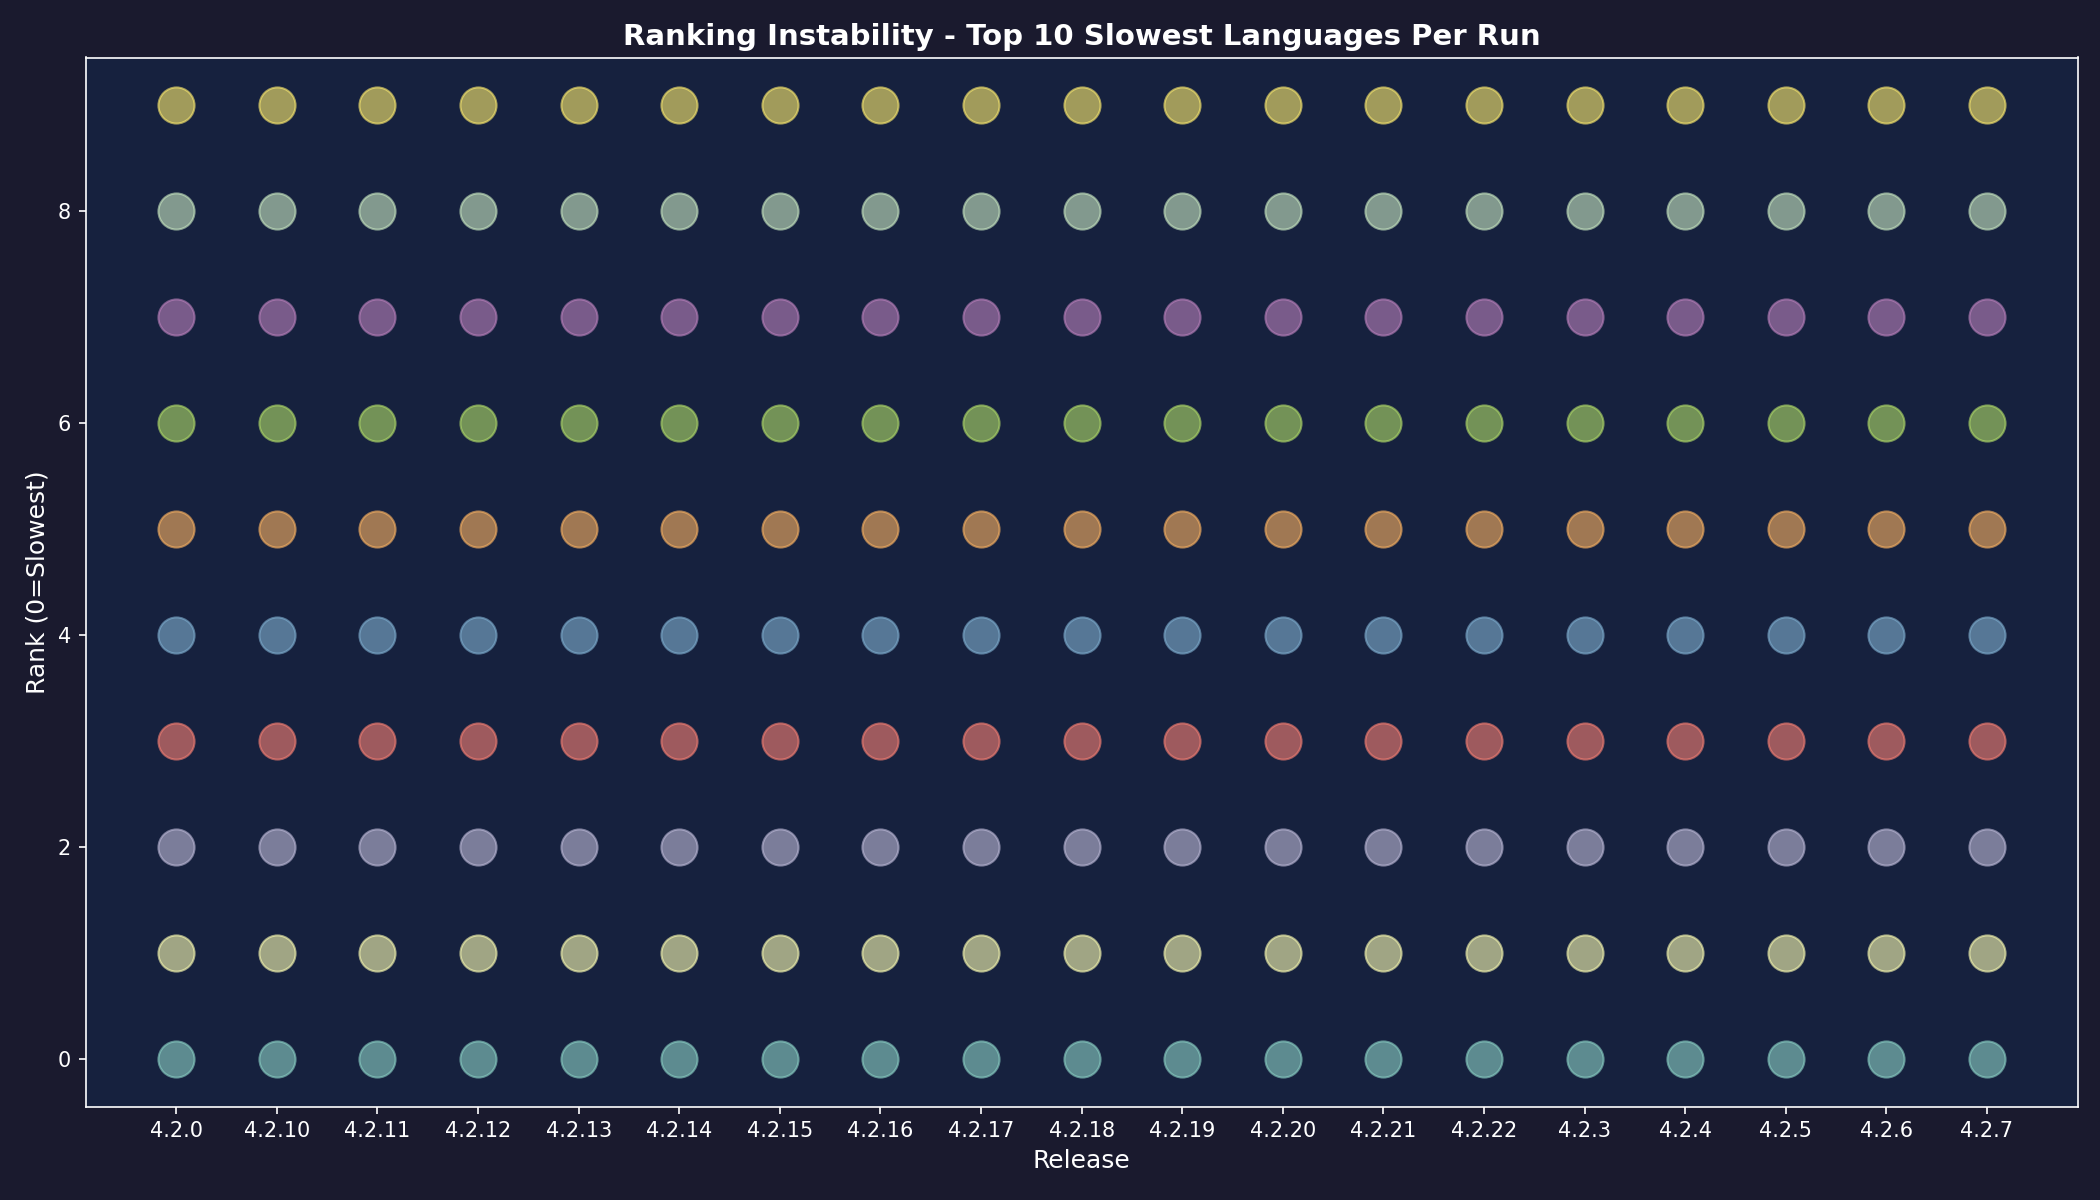
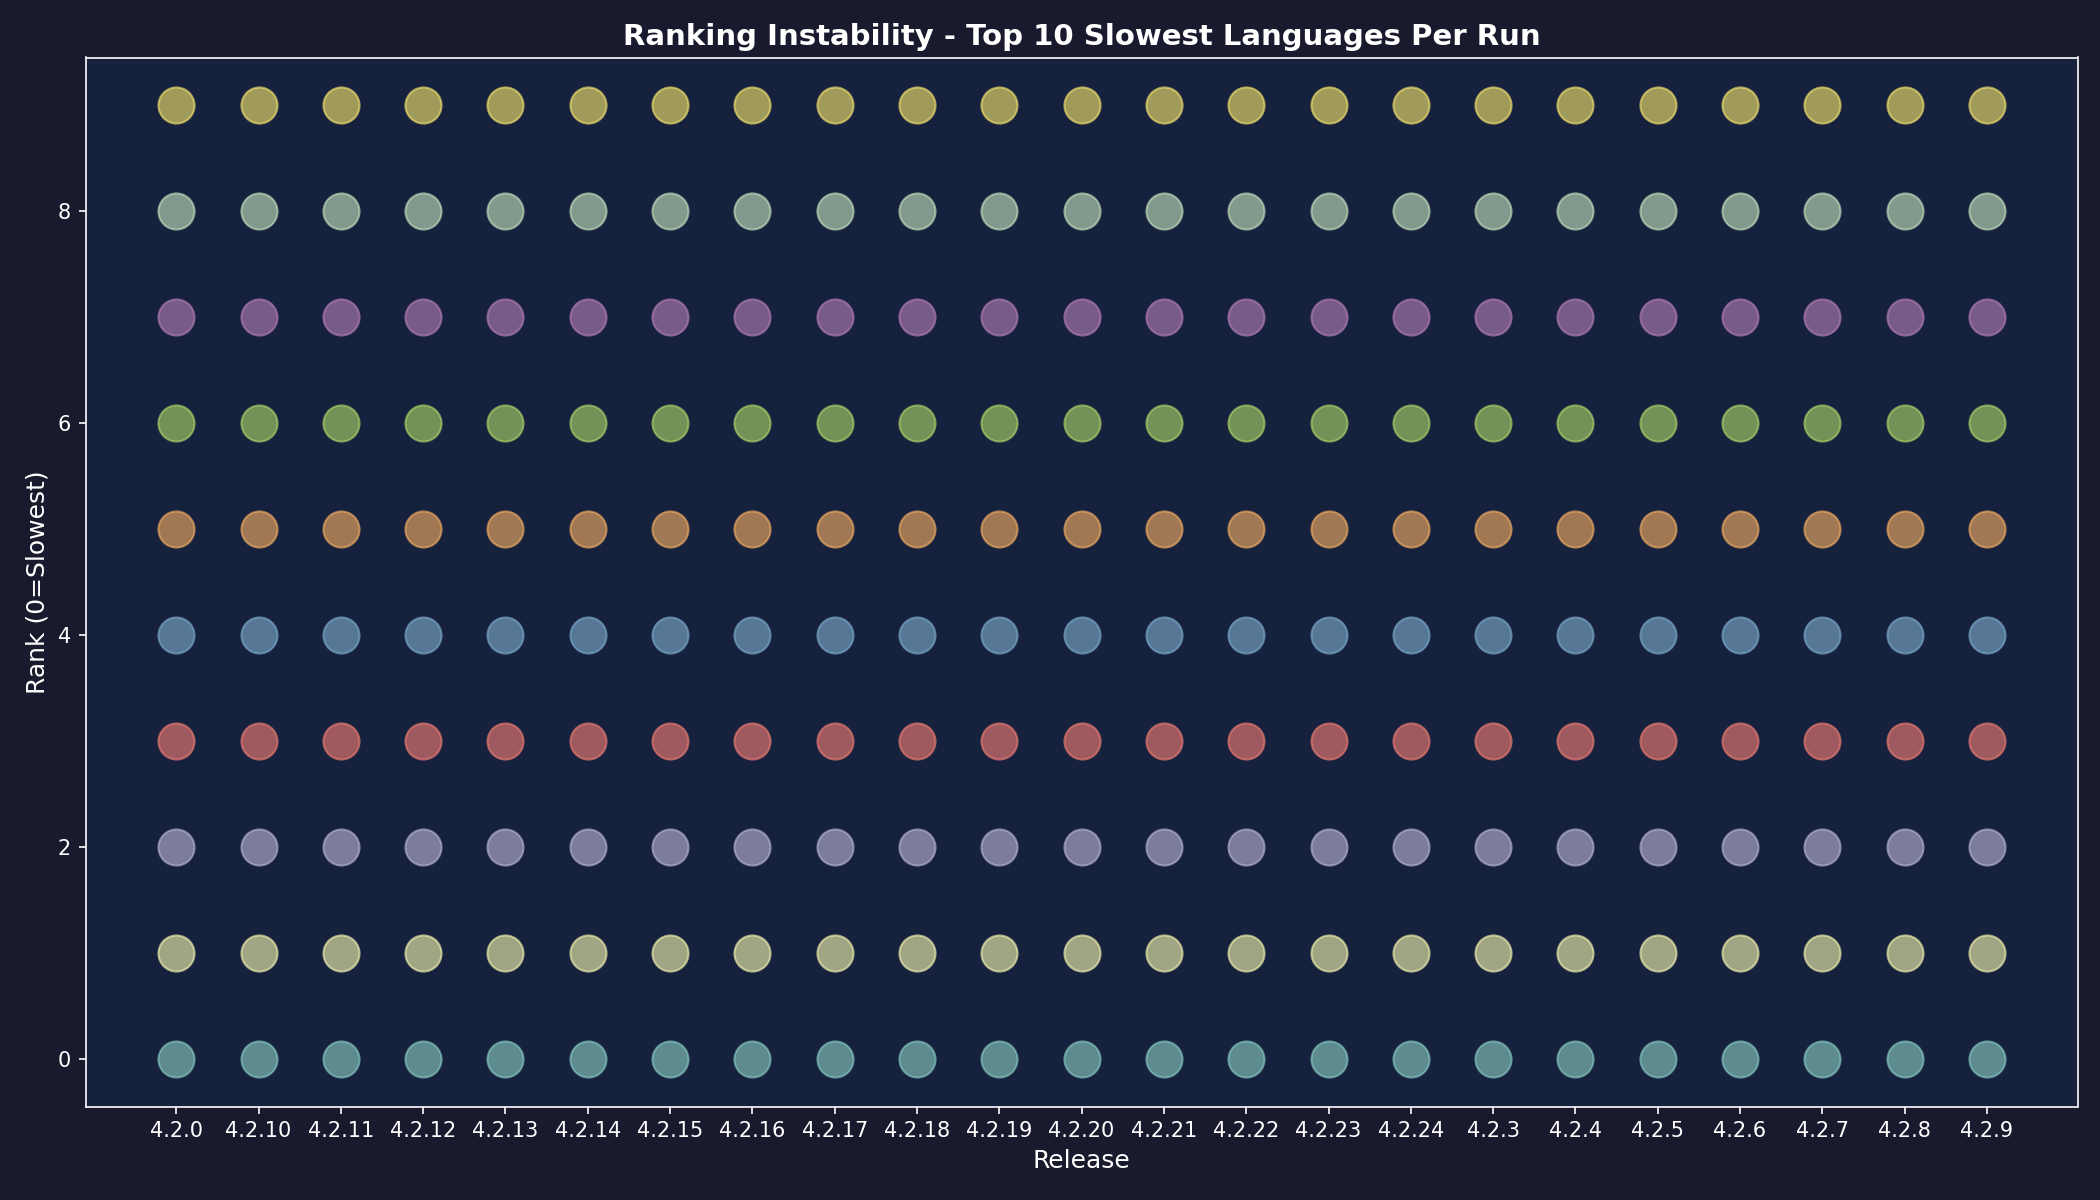
fix: regenerate aggregate report to resolve merge conflicts [ci skip]

diff --git a/AGGREGATED-PERFORMANCE.md b/AGGREGATED-PERFORMANCE.md
@@ -1,22 +1,13 @@
 # UN Inception: Aggregated Performance Analysis
 
-<<<<<<< Updated upstream
-**Analysis Date:** 1769282055.7116168
-**Reports Analyzed:** 4.2.0, 4.2.10, 4.2.11, 4.2.12, 4.2.13, 4.2.14, 4.2.15, 4.2.16, 4.2.17, 4.2.18, 4.2.19, 4.2.20, 4.2.21, 4.2.22, 4.2.24, 4.2.3, 4.2.4, 4.2.5, 4.2.6, 4.2.7, 4.2.8, 4.2.9
-=======
-**Analysis Date:** 1769282070.5510108
+**Analysis Date:** 1769287519.037188
 **Reports Analyzed:** 4.2.0, 4.2.10, 4.2.11, 4.2.12, 4.2.13, 4.2.14, 4.2.15, 4.2.16, 4.2.17, 4.2.18, 4.2.19, 4.2.20, 4.2.21, 4.2.22, 4.2.23, 4.2.24, 4.2.3, 4.2.4, 4.2.5, 4.2.6, 4.2.7, 4.2.8, 4.2.9
->>>>>>> Stashed changes
 
 ---
 
 ## Executive Summary
 
-<<<<<<< Updated upstream
-Analysis of 22 performance reports reveals **significant variance** in execution metrics across releases. Different languages rank as slowest/fastest in different runs, indicating **non-deterministic execution patterns** likely caused by:
-=======
 Analysis of 23 performance reports reveals **significant variance** in execution metrics across releases. Different languages rank as slowest/fastest in different runs, indicating **non-deterministic execution patterns** likely caused by:
->>>>>>> Stashed changes
 
 1. **Orchestrator placement on CPU-bound pool** (not an SRE best practice)
 2. **Resource contention** between the orchestrator & test jobs
@@ -45,12 +36,8 @@ Analysis of 23 performance reports reveals **significant variance** in execution
 | 4.2.20 | 114s | java (272s) | crystal (49s) | -37s (-24.5%) |
 | 4.2.21 | 102s | nim (215s) | erlang (22s) | -12s (-10.5%) |
 | 4.2.22 | 300s | javascript (2173s) | clojure (14s) | +198s (+194.1%) |
-<<<<<<< Updated upstream
-| 4.2.24 | 129s | python (494s) | clojure (8s) | -171s (-57.0%) |
-=======
 | 4.2.23 | 373s | zig (1058s) | perl (8s) | +73s (+24.3%) |
 | 4.2.24 | 129s | python (494s) | clojure (8s) | -244s (-65.4%) |
->>>>>>> Stashed changes
 | 4.2.3 | 63s | rust (142s) | v (40s) | -66s (-51.2%) |
 | 4.2.4 | 70s | python (110s) | c (23s) | +7s (+11.1%) |
 | 4.2.5 | 67s | v (114s) | erlang (44s) | -3s (-4.3%) |
@@ -88,10 +75,7 @@ The same language changes dramatically in rank between runs:
   - 4.2.20: 87s
   - 4.2.21: 42s
   - 4.2.22: 2173s
-<<<<<<< Updated upstream
-=======
   - 4.2.23: 425s
->>>>>>> Stashed changes
   - 4.2.24: 242s
   - 4.2.3: 75s
   - 4.2.4: 109s
@@ -117,10 +101,7 @@ The same language changes dramatically in rank between runs:
   - 4.2.20: 57s
   - 4.2.21: 24s
   - 4.2.22: 1834s
-<<<<<<< Updated upstream
-=======
   - 4.2.23: 9s
->>>>>>> Stashed changes
   - 4.2.24: 434s
   - 4.2.3: 64s
   - 4.2.4: 74s
@@ -146,10 +127,7 @@ The same language changes dramatically in rank between runs:
   - 4.2.20: 103s
   - 4.2.21: 215s
   - 4.2.22: 1217s
-<<<<<<< Updated upstream
-=======
   - 4.2.23: 286s
->>>>>>> Stashed changes
   - 4.2.24: 8s
   - 4.2.3: 52s
   - 4.2.4: 76s
@@ -175,10 +153,7 @@ The same language changes dramatically in rank between runs:
   - 4.2.20: 224s
   - 4.2.21: 192s
   - 4.2.22: 1014s
-<<<<<<< Updated upstream
-=======
   - 4.2.23: 1058s
->>>>>>> Stashed changes
   - 4.2.24: 8s
   - 4.2.3: 61s
   - 4.2.4: 60s
@@ -187,34 +162,6 @@ The same language changes dramatically in rank between runs:
   - 4.2.7: 79s
   - 4.2.8: 187s
   - 4.2.9: 153s
-<<<<<<< Updated upstream
-  - **Range:** 8s → 1014s (12575.0% variance)
-
-**LUA:**
-  - 4.2.0: 32s
-  - 4.2.10: 51s
-  - 4.2.11: 56s
-  - 4.2.12: 53s
-  - 4.2.13: 203s
-  - 4.2.14: 127s
-  - 4.2.15: 166s
-  - 4.2.16: 242s
-  - 4.2.17: 40s
-  - 4.2.18: 73s
-  - 4.2.19: 472s
-  - 4.2.20: 133s
-  - 4.2.21: 183s
-  - 4.2.22: 975s
-  - 4.2.24: 9s
-  - 4.2.3: 63s
-  - 4.2.4: 71s
-  - 4.2.5: 52s
-  - 4.2.6: 36s
-  - 4.2.7: 152s
-  - 4.2.8: 84s
-  - 4.2.9: 56s
-  - **Range:** 9s → 975s (10733.3% variance)
-=======
   - **Range:** 8s → 1058s (13125.0% variance)
 
 **V:**
@@ -242,7 +189,6 @@ The same language changes dramatically in rank between runs:
   - 4.2.8: 109s
   - 4.2.9: 42s
   - **Range:** 21s → 1040s (4852.4% variance)
->>>>>>> Stashed changes
 
 
 ---
@@ -265,10 +211,7 @@ The same language changes dramatically in rank between runs:
 4.2.20: crystal, v, deno, r, csharp
 4.2.21: erlang, r, ruby, awk, typescript
 4.2.22: powershell, clojure, scheme, objc, v
-<<<<<<< Updated upstream
-=======
 4.2.23: perl, r, d, groovy, powershell
->>>>>>> Stashed changes
 4.2.24: zig, nim, kotlin, fortran, forth
 4.2.3: v, d, kotlin, awk, raku
 4.2.4: c, d, cobol, raku, v
@@ -294,10 +237,7 @@ The same language changes dramatically in rank between runs:
 4.2.20: java, zig, cobol, perl, haskell
 4.2.21: nim, dart, java, cpp, rust
 4.2.22: javascript, r, nim, zig, lua
-<<<<<<< Updated upstream
-=======
 4.2.23: zig, v, commonlisp, deno, elixir
->>>>>>> Stashed changes
 4.2.24: python, php, r, elixir, deno
 4.2.3: rust, c, python, typescript, javascript
 4.2.4: python, javascript, elixir, scheme, bash
@@ -393,35 +333,20 @@ R: 9s → 1834s (+20277.8%)
 
 NIM: 8s → 1217s (+15112.5%)
 
-<<<<<<< Updated upstream
-ZIG: 8s → 1014s (+12575.0%)
-
-LUA: 9s → 975s (+10733.3%)
-=======
 ZIG: 8s → 1058s (+13125.0%)
 
 V: 21s → 1040s (+4852.4%)
->>>>>>> Stashed changes
 
 LUA: 9s → 975s (+10733.3%)
 
 COMMONLISP: 27s → 956s (+3440.7%)
 
-<<<<<<< Updated upstream
-PYTHON: 19s → 494s (+2500.0%)
-
-PHP: 23s → 471s (+1947.8%)
-
-PERL: 26s → 468s (+1700.0%)
-
-=======
 DENO: 24s → 926s (+3758.3%)
 
 ELIXIR: 20s → 917s (+4485.0%)
 
 PHP: 23s → 824s (+3482.6%)
 
->>>>>>> Stashed changes
 
 These languages are most affected by resource contention. Likely reasons:
 - **Dynamic languages** (Python, Ruby, JavaScript): Startup time varies with GC/JIT
@@ -473,28 +398,6 @@ Keep it as-is for stress testing, but in separate test environment.
 
 | Language | Min (s) | Max (s) | Avg (s) | Range (s) | Variance % |
 |----------|---------|---------|---------|-----------|------------|
-<<<<<<< Updated upstream
-| NIM | 8 | 1217 | 127.3 | 1209 | 15112.5% |
-| ZIG | 8 | 1014 | 154.8 | 1006 | 12575.0% |
-| LUA | 9 | 975 | 151.3 | 966 | 10733.3% |
-| R | 24 | 1834 | 205.7 | 1810 | 7541.7% |
-| JAVASCRIPT | 32 | 2173 | 218.7 | 2141 | 6690.6% |
-| KOTLIN | 8 | 313 | 93.7 | 305 | 3812.5% |
-| CLOJURE | 8 | 310 | 101.0 | 302 | 3775.0% |
-| HASKELL | 21 | 754 | 123.0 | 733 | 3490.5% |
-| DOTNET | 5 | 176 | 81.1 | 171 | 3420.0% |
-| CSHARP | 8 | 266 | 89.0 | 258 | 3225.0% |
-| PROLOG | 9 | 262 | 76.7 | 253 | 2811.1% |
-| FORTH | 8 | 231 | 94.0 | 223 | 2787.5% |
-| RUBY | 30 | 825 | 160.4 | 795 | 2650.0% |
-| PYTHON | 19 | 494 | 108.1 | 475 | 2500.0% |
-| RUST | 9 | 234 | 116.9 | 225 | 2500.0% |
-| D | 8 | 203 | 82.8 | 195 | 2437.5% |
-| SCHEME | 15 | 320 | 98.9 | 305 | 2033.3% |
-| PHP | 23 | 471 | 123.0 | 448 | 1947.8% |
-| ELIXIR | 20 | 404 | 129.9 | 384 | 1920.0% |
-| FORTRAN | 8 | 161 | 71.9 | 153 | 1912.5% |
-=======
 | R | 9 | 1834 | 197.2 | 1825 | 20277.8% |
 | NIM | 8 | 1217 | 134.2 | 1209 | 15112.5% |
 | ZIG | 8 | 1058 | 194.0 | 1050 | 13125.0% |
@@ -515,7 +418,6 @@ Keep it as-is for stress testing, but in separate test environment.
 | PHP | 23 | 824 | 153.5 | 801 | 3482.6% |
 | TCL | 20 | 712 | 117.4 | 692 | 3460.0% |
 | COMMONLISP | 27 | 956 | 124.0 | 929 | 3440.7% |
->>>>>>> Stashed changes
 
 
 ---
@@ -584,10 +486,7 @@ Individual Reports → Aggregation Script → Chart Generation (via UN) → Fina
 - `reports/4.2.20/perf.json` - 685 tests, generated 2026-01-23T20:41:23Z
 - `reports/4.2.21/perf.json` - 661 tests, generated 2026-01-23T21:16:07Z
 - `reports/4.2.22/perf.json` - 697 tests, generated 2026-01-24T17:57:56Z
-<<<<<<< Updated upstream
-=======
 - `reports/4.2.23/perf.json` - 713 tests, generated 2026-01-24T19:14:09Z
->>>>>>> Stashed changes
 - `reports/4.2.24/perf.json` - 665 tests, generated 2026-01-24T19:13:51Z
 - `reports/4.2.3/perf.json` - 642 tests, generated 2026-01-19T11:58:45Z
 - `reports/4.2.4/perf.json` - 682 tests, generated 2026-01-19T12:02:14Z
@@ -792,9 +691,5 @@ For questions about this methodology or to report issues:
 ---
 
 **Generated by UN Inception Performance Analysis Pipeline**
-<<<<<<< Updated upstream
-**Analysis Date:** 2026-01-24T14:14:15.842875
-=======
-**Analysis Date:** 2026-01-24T14:14:30.672853
->>>>>>> Stashed changes
+**Analysis Date:** 2026-01-24T15:45:42.561682
 **Report Version:** 1.0.0
